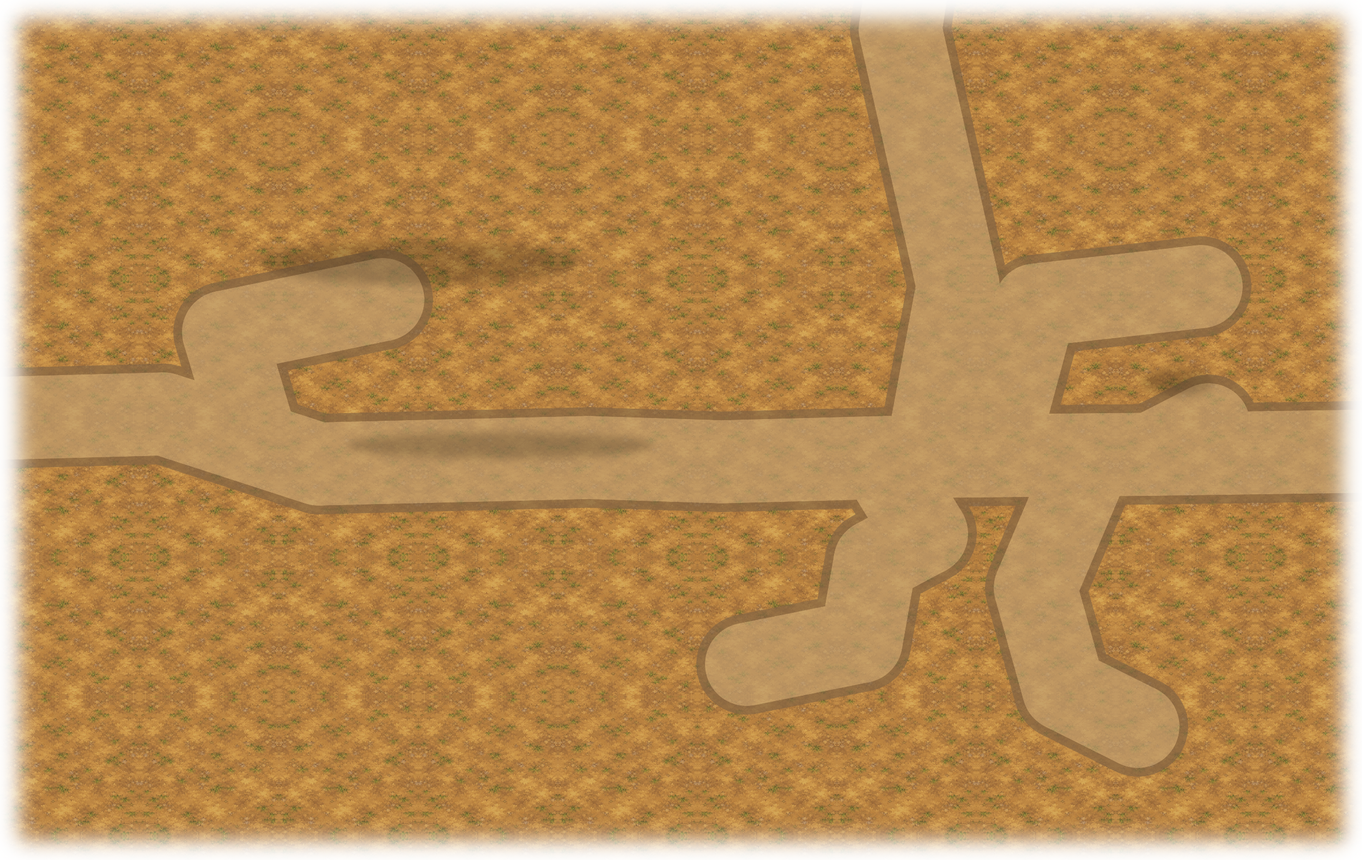
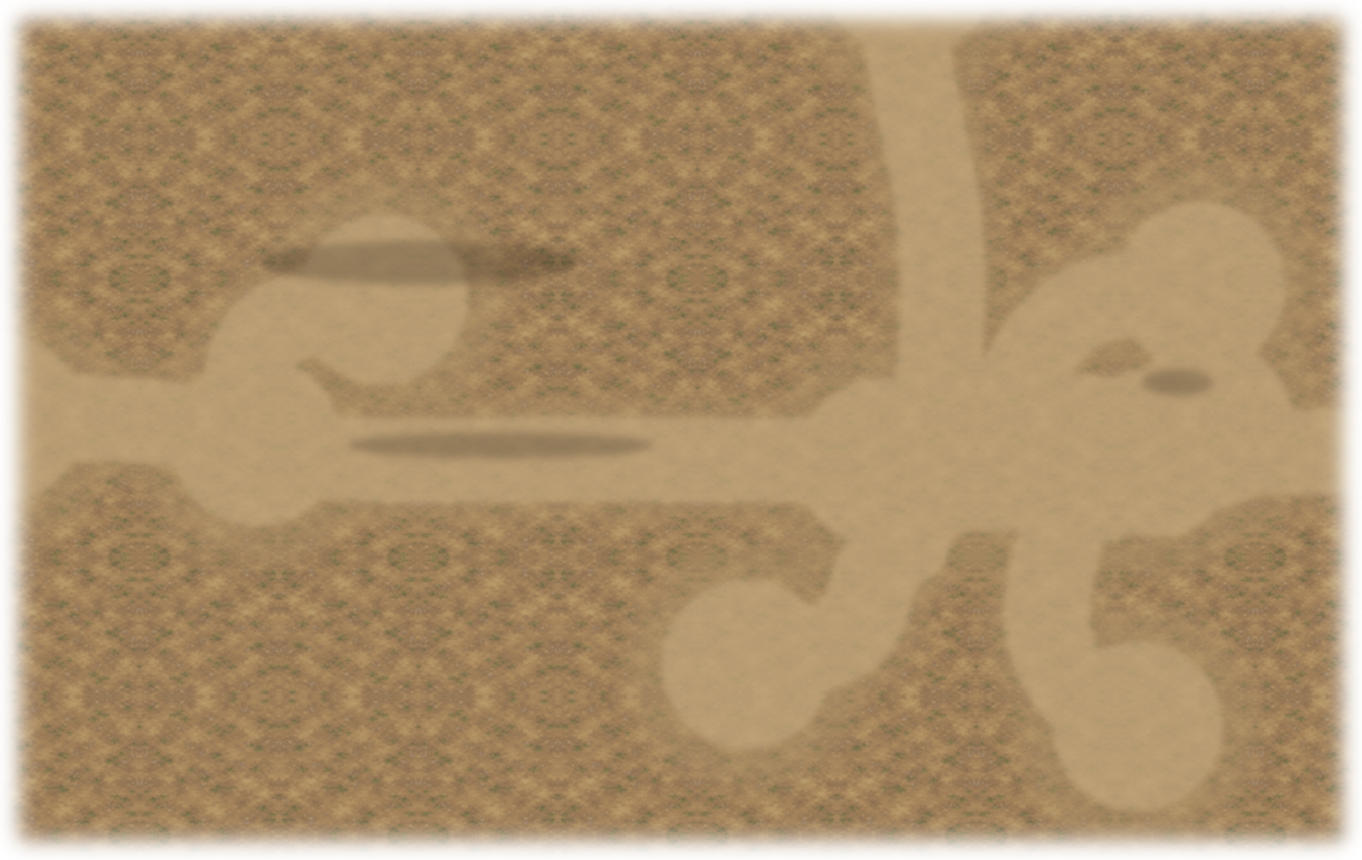
feat(map): 精修幸存者营地 B 局部样板
- 降低地面颗粒对比，平滑道路过渡并以整体暖灰岩带替换几何条带

- 增加四条正式导航与物理驱动的实走遮挡复核，保持原地图与障碍不变

- 提交实机截图和第一节点验收记录；尚未扩展全图

diff --git a/tools/build_camp_style_sample.py b/tools/build_camp_style_sample.py
@@ -29,6 +29,19 @@ def magick(*args):
     subprocess.run(["magick", *map(str, args)], check=True)
 
 
+def smooth_path(points, scale):
+    """用二次曲线穿过现有道路点；只平滑画面，不移动布局事实源。"""
+    coordinates = [((x-PATCH[0])*scale, (y-PATCH[1])*scale) for x, y in points]
+    path = [f"M {coordinates[0][0]},{coordinates[0][1]}"]
+    for index in range(1, len(coordinates)-1):
+        x, y = coordinates[index]
+        nx, ny = coordinates[index+1]
+        path.append(f"Q {x},{y} {(x+nx)/2},{(y+ny)/2}")
+    x, y = coordinates[-1]
+    path.append(f"T {x},{y}")
+    return " ".join(path)
+
+
 def write_ground(style, scale, output, scratch, layout):
     """铺设可踩地面和贴地道路；局部边缘用透明渐隐标出样板边界。"""
     tile_source = SOURCE / f"ground_{style}.png"
@@ -38,7 +51,12 @@ def write_ground(style, scale, output, scratch, layout):
     top = scratch / "top.png"
     bottom = scratch / "bottom.png"
     seamless = scratch / "seamless.png"
-    magick(tile_source, "-resize", f"{tile_size}x{tile_size}!", tile)
+    if style == "b":
+        # 降低颗粒对比并轻微软化地面，人物与可交互对象优先被看见。
+        magick(tile_source, "-resize", f"{tile_size}x{tile_size}!", "-modulate", "100,72,100",
+               "-brightness-contrast", "0x-16", "-blur", f"0x{0.7*scale}", tile)
+    else:
+        magick(tile_source, "-resize", f"{tile_size}x{tile_size}!", tile)
     magick(tile, "-flop", right)
     magick(tile, right, "+append", top)
     magick(top, "-flip", bottom)
@@ -47,26 +65,46 @@ def write_ground(style, scale, output, scratch, layout):
     base = scratch / "base.png"
     magick("-size", f"{width}x{height}", f"tile:{seamless}", base)
     paths = [layout["main_road"], *layout["branches"]]
-    road_solid = scratch / "roads_solid.png"
     road_png = scratch / "roads.png"
-    roads_cmd = ["-size", f"{width}x{height}", "xc:none"]
-    colors = [("#755c3d", 92), ("#b59b72", 76)] if style == "a" \
-        else [("#826443", 92), ("#c09e6f", 76)]
-    for color, stroke in colors:
-        radius = stroke * scale / 2
-        roads_cmd += ["-stroke", color, "-strokewidth", str(stroke * scale), "-fill", "none"]
-        for points in paths:
-            for (x1, y1), (x2, y2) in zip(points, points[1:]):
-                ax, ay = (x1-PATCH[0])*scale, (y1-PATCH[1])*scale
-                bx, by = (x2-PATCH[0])*scale, (y2-PATCH[1])*scale
-                roads_cmd += ["-draw", f"line {ax},{ay} {bx},{by}"]
-        roads_cmd += ["-stroke", "none", "-fill", color]
-        for points in paths:
-            for x, y in points:
-                px, py = (x-PATCH[0])*scale, (y-PATCH[1])*scale
-                roads_cmd += ["-draw", f"circle {px},{py} {px+radius},{py}"]
-    magick(*roads_cmd, road_solid)
-    magick(road_solid, "-channel", "A", "-evaluate", "multiply", "0.68", "+channel", road_png)
+    if style == "b":
+        # 两层低对比曲线路面：模糊外缘是贴地过渡，不是可踩区域外的立体边框。
+        blended = scratch / "road_blended.png"
+        for name, color, stroke, opacity, blur in [
+            ("outer", "#ad9168", 112, 0.48, 10),
+            ("inner", "#c6aa7f", 78, 0.59, 3),
+        ]:
+            png = scratch / f"road_{name}.png"
+            cmd = ["-size", f"{width}x{height}", "xc:none", "-fill", "none",
+                   "-stroke", color, "-strokewidth", str(stroke*scale)]
+            for points in paths:
+                cmd += ["-draw", f"path '{smooth_path(points, scale)}'"]
+                for x, y in [points[0], points[-1]]:
+                    px, py = (x-PATCH[0])*scale, (y-PATCH[1])*scale
+                    cmd += ["-draw", f"circle {px},{py} {px+stroke*scale/2},{py}"]
+            magick(*cmd, "-blur", f"0x{blur*scale}", "-channel", "A", "-evaluate",
+                   "multiply", str(opacity), "+channel", png)
+        magick(scratch / "road_outer.png", scratch / "road_inner.png", "-compose", "Over",
+               "-composite", blended)
+        shutil.copy2(blended, road_png)
+    else:
+        road_solid = scratch / "roads_solid.png"
+        roads_cmd = ["-size", f"{width}x{height}", "xc:none"]
+        for color, stroke in [("#755c3d", 92), ("#b59b72", 76)]:
+            radius = stroke * scale / 2
+            roads_cmd += ["-stroke", color, "-strokewidth", str(stroke * scale), "-fill", "none"]
+            for points in paths:
+                for (x1, y1), (x2, y2) in zip(points, points[1:]):
+                    ax, ay = (x1-PATCH[0])*scale, (y1-PATCH[1])*scale
+                    bx, by = (x2-PATCH[0])*scale, (y2-PATCH[1])*scale
+                    roads_cmd += ["-draw", f"line {ax},{ay} {bx},{by}"]
+            roads_cmd += ["-stroke", "none", "-fill", color]
+            for points in paths:
+                for x, y in points:
+                    px, py = (x-PATCH[0])*scale, (y-PATCH[1])*scale
+                    roads_cmd += ["-draw", f"circle {px},{py} {px+radius},{py}"]
+        road_solid = scratch / "roads_solid.png"
+        magick(*roads_cmd, road_solid)
+        magick(road_solid, "-channel", "A", "-evaluate", "multiply", "0.68", "+channel", road_png)
     painted = scratch / "painted.png"
     shadow = scratch / "shadows.png"
     shadow_cmd = ["-size", f"{width}x{height}", "xc:none", "-fill", "rgba(26,19,12,0.23)", "-stroke", "none"]
@@ -134,9 +172,25 @@ def write_fence(style, scale, output):
 
 def write_western_rocks(style, scale, output):
     """只在现有西侧岩石障碍范围画立体岩面，避免新增可踩假障碍。"""
-    dark = "#4f4942" if style == "a" else "#494b4b"
-    mid = "#777267" if style == "a" else "#747673"
-    light = "#a49a82" if style == "a" else "#aaa492"
+    if style == "b":
+        with tempfile.TemporaryDirectory(prefix="camp-rock-cutout-") as folder:
+            scratch = Path(folder)
+            fitted = scratch / "fitted.png"
+            mask = scratch / "footprint.png"
+            width, height = 95 * scale, 400 * scale
+            magick(SOURCE / "western_rocks_b.png", "-trim", "+repage", "-resize",
+                   f"{width}x{height}!", "-strip", fitted)
+            points = " ".join(f"{x*scale},{y*scale}" for x, y in
+                              [(0, 0), (30, 0), (95, 240), (55, 370), (0, 400)])
+            magick("-size", f"{width}x{height}", "xc:none", "-fill", "white", "-draw",
+                   f"polygon {points}", mask)
+            magick(fitted, mask, "-compose", "DstIn", "-composite", "-strip",
+                   output / "western_rocks_front.png")
+        return {"id": "western_rocks", "rect": [0, 450, 95, 400], "foot_y": 850,
+                "front": f"res://assets/maps/camp_style_sample/{style}/western_rocks_front.png"}
+    dark = "#4f4942"
+    mid = "#777267"
+    light = "#a49a82"
     cliff = "M0 0 L30 0 L95 240 L55 370 L0 400 Z"
     svg = [f'<svg xmlns="http://www.w3.org/2000/svg" width="{95*scale}" height="{400*scale}" viewBox="0 0 95 400">',
            f'<defs><clipPath id="cliff"><path d="{cliff}"/></clipPath></defs>',

diff --git a/docs/素材设计/18-幸存者营地B局部样板精修验收.md b/docs/素材设计/18-幸存者营地B局部样板精修验收.md
@@ -1,0 +1,17 @@
+# 幸存者营地 B 局部样板精修验收
+
+本记录对应既定计划的**第一节点**：在原 A/B 同场景样板中只精修 B，保持 3200×1800 世界尺寸、110×110 网格、5 个 NPC、7 个实体足迹和 15 个围栏/岩石障碍不变。样板仍由 [CampStyleSample.tscn](../../tests/CampStyleSample.tscn) 单独运行，未接入正式营地入口；此前的 A 版继续作为对照。
+
+## 产物与改动
+
+- [生成器](../../tools/build_camp_style_sample.py)将 B 的重复地纹降低饱和度与局部对比，并轻微软化颗粒；道路按现有道路控制点绘制平滑曲线和两层低对比贴地过渡，不改道路中心线或通行数据。精修后的运行贴图位于 [B 样板目录](../../assets/maps/camp_style_sample/b/)。
+- [整体岩带源图](../../art_source/environment/camp_style_sample/western_rocks_b.png)为透明背景的暖灰石材大块面原图。生成器将它裁到既有 `western_rocks` 障碍外形内，保持单一整体实体与既有坐标锚点。
+- [真实路线测试](../../tests/CampStyleTraversalTest.tscn)让正式玩家通过正式导航和物理，分别沿铁匠铺、长老树、北栅栏和西岩带的可走侧移动；[截图目录](样板/幸存者营地B精修/)包含精修实机截图及四条路线中途画面。旧版画面保留在[初版 A/B 截图](样板/幸存者营地AB/)供同场景对比。
+
+## 自检结论
+
+实机对照中，地面不再与玩家/NPC 的轮廓争夺同等细节；道路硬色边已换成低对比渐变，靠近铁匠铺和货郎摊时仍能读出主路；西侧岩带不再是重复三角形，石块体量和铁匠铺的暖灰石材接近。B 的地面在 200% 下仍略有软化，但比初版更适合玩家优先的层次。屋檐、树冠与前沿图层仍为独立透明资源，没有重新烘焙到底图。
+
+`CampStyleSampleTest` 验证透明底图、三组实体背/前层像素互斥、原 22 个障碍节点和五个样板承重区的 168 个不可走格心。`CampStyleTraversalTest` 在实际窗口中让玩家分别行走约 **896、388、986、294 世界像素**，逐物理帧检查脚底格，没有踏入原有障碍，并保存中途截图。北栅栏和西岩带的背面仍在原有不可达边界之外，无法在不改障碍的情况下绕到另一侧；这属于固定布局的限制，不据此声称已验证不可达背面。
+
+复核命令：`python3 tools/build_camp_style_sample.py`、`python3 tools/run_isolated_tests.py CampStyleSampleTest CampStyleTraversalTest`、`python3 tools/run_isolated_tests.py --rendered CampStyleSampleTest CampStyleTraversalTest`。下一节点将以固定窗口测 A/B 的清晰度、加载、帧时间和纹理实际占用，再确定全营地生产规格。

diff --git a/art_source/environment/camp_style_sample/README.md b/art_source/environment/camp_style_sample/README.md
@@ -1,5 +1,5 @@
 # 幸存者营地 A/B 样板源图
 
-八张 PNG 为本任务通过 OpenAI ImageGen 制作的 A/B 局部试作原图：铁匠铺、货郎摊、长老树、夯土地纹各两张。独立物件保留真实透明背景，地纹用于可重复的透明局部底图；它们只用于 `tools/build_camp_style_sample.py`，尚不是正式营地定稿。
+八张 PNG 为本任务通过 OpenAI ImageGen 制作的 A/B 局部试作原图：铁匠铺、货郎摊、长老树、夯土地纹各两张。`western_rocks_b.png` 是后续为 B 方案精修生成的整体岩带源图。独立物件保留真实透明背景，地纹用于可重复的透明局部底图；它们只用于 `tools/build_camp_style_sample.py`，尚不是正式营地定稿。
 
 使用条件：项目内美术试作。生成日期：2026-10-16。派生运行资源见 `assets/maps/camp_style_sample/`，裁切、尺寸、图层和坐标以生成器及相邻清单为准。A/B 为同场景的视觉与分辨率对照，不能单独拿一张全图贴到正式营地。
